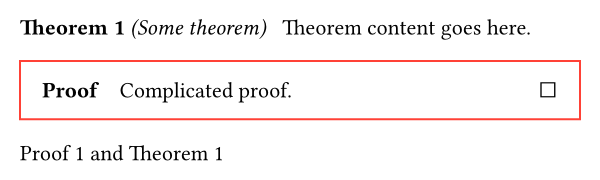
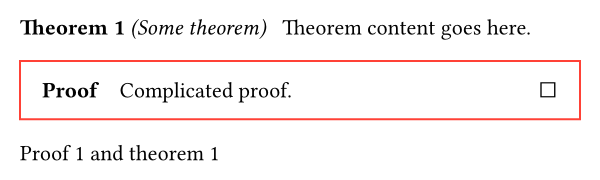
allow overriding supplement in reference

Changed region(s): [[0.21, 0.8056, 0.39, 0.9167]]

diff --git a/README.md b/README.md
@@ -53,7 +53,7 @@ The result should now look something like this
 
 ## Examples
 
-As another example we will number corollarys after the last theorem.
+This example shows how corollaries can be numbered after the last theorem.
 ```typst
 #import "@preview/lemmify:0.2.0": theorem-rules, theorem-kind, select-kind, reset-counter
 
@@ -78,7 +78,6 @@ As another example we will number corollarys after the last theorem.
 
 ## Custom style example
 
-This examples shows how custom style functions can be defined.
 ```typst
 #import "@preview/lemmify:0.2.0": default-theorems, get-theorem-parameters
 
